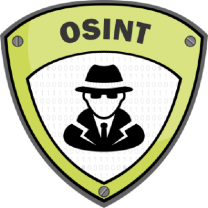
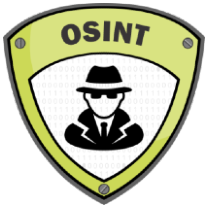
update

Changed region(s): [[0.0, 0.0, 1.0, 1.0]]

diff --git a/index.html b/index.html
@@ -348,9 +348,9 @@
                         <!-- Single Album -->
                         <div class="single-album">
                             <a href="#">
-                                <img src="img/kali/k-empty.png" alt="">
+                                <img src="img/kali/Tutorials/OSINT/1.png" alt="">
                                 <div class="album-info">                                
-                                <h5>6. Upcoming</h5>                                
+                                <h5>6. OSINT</h5>                                
                                 <p>difficulty</p>
                             </div>
                             </a>
